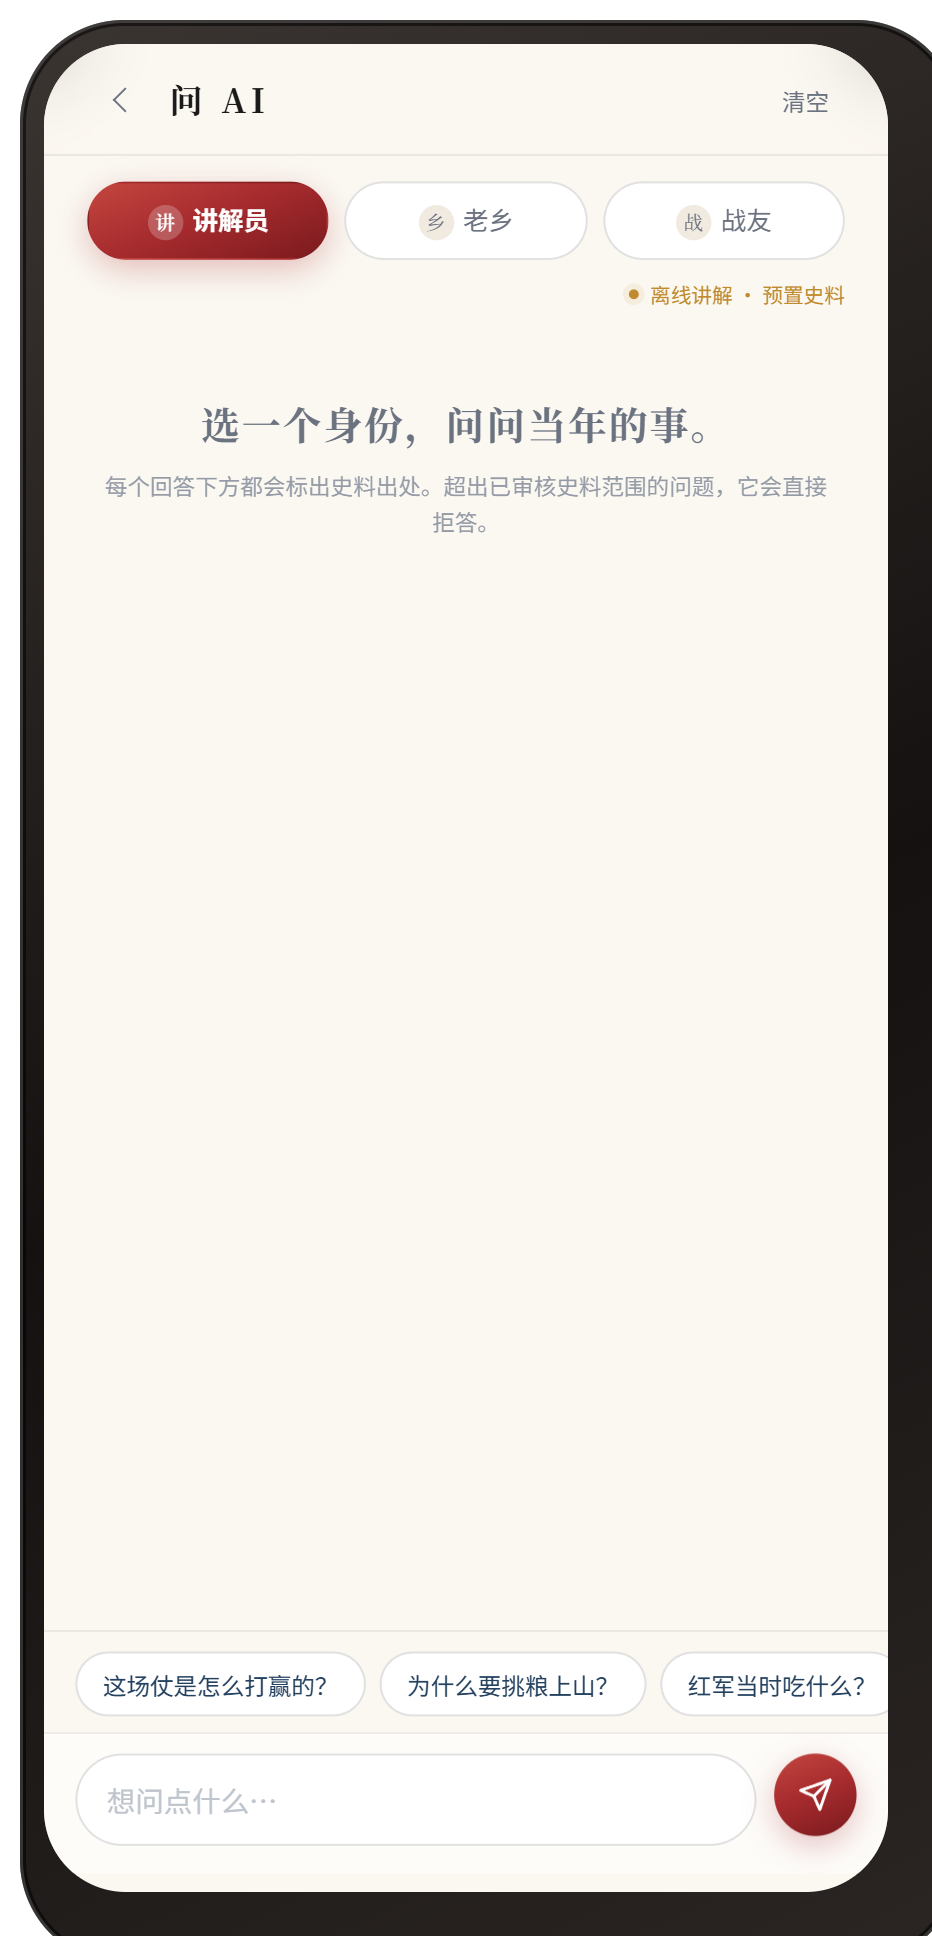
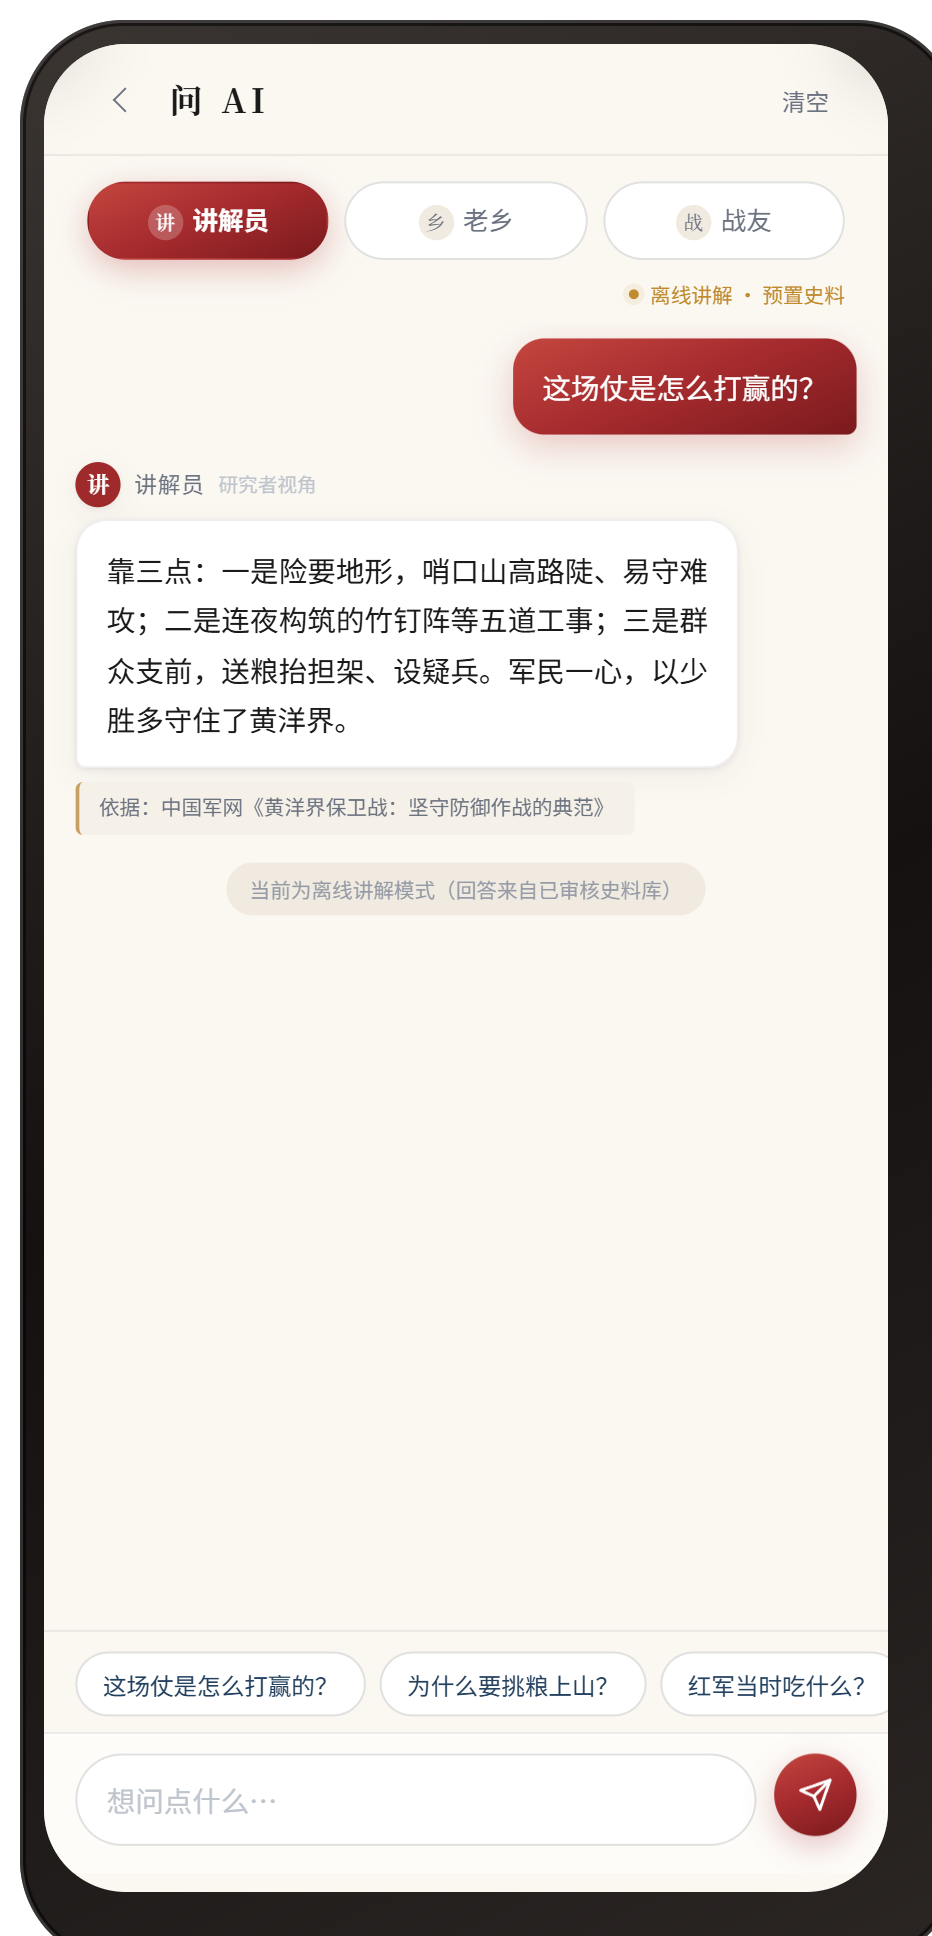
chore: 重出截图与 PPT 素材（反映 4 题任务单与修复后的对话）
- 任务页截图更新为 4 题（看/想/理/说）
- 对话页截图带真实问答与史料出处
- PPT 总览图中间手机框不再空白，展示完整问答闭环

Changed region(s): [[0.0622, 0.155, 0.9335, 0.4339], [0.1867, 0.4029, 0.7157, 0.4649], [0.0622, 0.4029, 0.0933, 0.4339]]

diff --git a/tools/shoot_ppt_v2.js b/tools/shoot_ppt_v2.js
@@ -68,6 +68,20 @@ async function shotFrames() {
   for (const [view, pid, file] of showcaseShots) {
     await framePage.goto("file:///" + FRAME + "?view=" + view + "&id=" + pid, { waitUntil: "networkidle2", timeout: 40000 });
     await new Promise((r) => setTimeout(r, 3000));
+
+    // 对话页要有一段真实问答才有展示价值：空白的欢迎语看不出「史料锚定」
+    if (view === "chat") {
+      const inner = framePage.frames().find((f) => f.url().includes("index.html"));
+      if (inner) {
+        await inner.evaluate(() => {
+          const inp = document.getElementById("chat-input");
+          const btn = document.getElementById("chat-send");
+          if (inp && btn) { inp.value = "这场仗是怎么打赢的？"; btn.click(); }
+        });
+        await new Promise((r) => setTimeout(r, 5500));
+      }
+    }
+
     await framePage.screenshot({ path: path.join(OUT, file), omitBackground: true });
     console.log("frame: " + file);
   }
